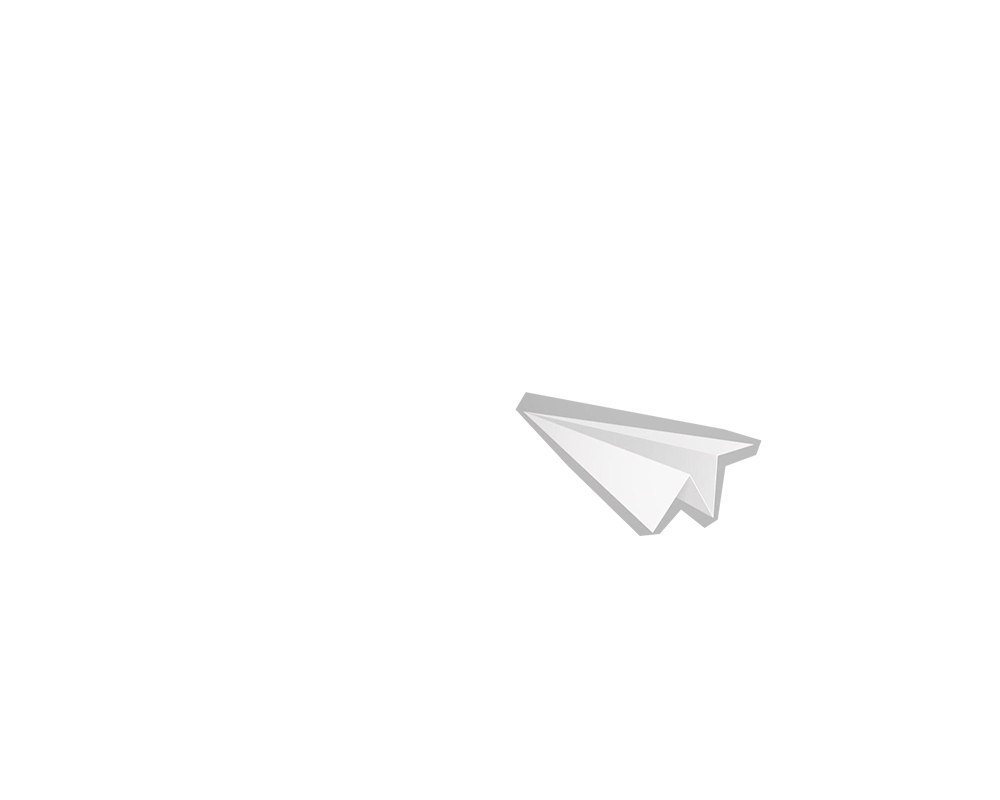
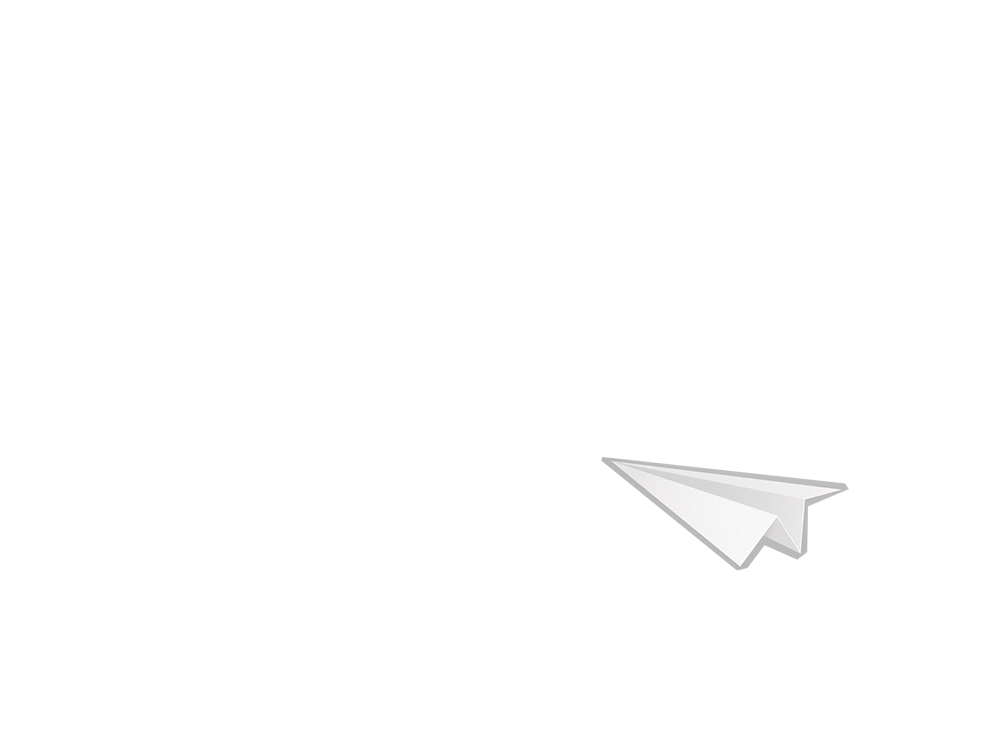
add the home page

Changed region(s): [[0.496, 0.4887, 0.868, 0.7636], [0.682, 0.7025, 0.713, 0.7331]]

diff --git a/index.html b/index.html
@@ -3,101 +3,37 @@
 	<head>
 		<meta charset="UTF-8" />
 		<meta http-equiv="X-UA-Compatible" content="IE=edge,chrome=1"> 
-		<meta name="viewport" content="width=device-width, initial-scale=1.0"> 
+		<meta name="viewport" content="width=device-width, initial-scale=1.0">
 		<title>Xiang xiyun's Blog</title>
-		
 
-		<link rel="stylesheet" type="text/css" href="stylesheets/index.css" />
-		<link rel="stylesheet" type="text/css" href="stylesheets/sideBar.css" />
-		<link rel="stylesheet" type="text/css" href="stylesheets/font-awesome-ie7.min.css"/>
-		<link rel="stylesheet" type="text/css" href="stylesheets/font-awesome.min.css"/>
-
-		<script src="javascripts/modernizr.custom.js"></script>
-		<script src="javascripts/jquery-1.11.2.min.js"></script>
-		<script src="javascripts/index.js"></script>
+    <link rel="stylesheet" type="text/css" href="homepage.css" />
+    <link rel="stylesheet" type="text/css" href="stylesheets/font-awesome-ie7.min.css"/>
+    <link rel="stylesheet" type="text/css" href="stylesheets/font-awesome.min.css"/>
 
 	</head>
 
 
 	<body>
-		<div id="st-container" class="st-container">
-			
-			<div class="st-pusher">
+    <div class = "container" style = "background: rgb(12,36,65)">
+    <ul id = "scene">
+      <li class="layer" data-depth ="0.40"><img id = "star1" src = "images/star1.png"/></li>
+      <li class="layer" data-depth ="0.20"><img id = "star2" src = "images/star2.png"/></li>
+      <li class="layer" data-depth ="0.00"><img id = "star3" src = "images/star3.png"/></li>
+      <li class="layer" data-depth ="0.50"><img id = "paperplane" src = "images/paperplane.png"/></li>
+      <li class="layer" data-depth ="0.10"><img id = "background" src = "images/background.png"/></li>
+    </ul>
+  </div>
+    <button id="toggle" class="toggle i">
+      <a href= "about.html"><i class="icon icon-double-angle-right"></i></a>
+    </button>
+  <script src="javascripts/jquery.js"></script>
+  <script src="deploy/jquery.parallax.js"></script>
+  <script>
 
-				<nav class="st-menu st-effect-3" id="menu-3">
-					<h2 >Index</h2>
+  // Yep, that's it!
+  $('#scene').parallax();
 
-					<ul class = 'MenuList'>
-          				<li class = 'MenuElement'> 
-          					<a class="reference" href="index.html">
-          						<i class="icon icon-home"></i> Home
-          					</a>  
-          				</li>
+  </script>
 
-          				<li class = 'MenuElement'> 
-          					<a class="reference" href="#"> 
-          						<i class="icon icon-plus"></i> About
-          					</a> 
-              				<ul class = 'SubMenu'>
-                				<li id = "about"> 
-                					<a href = "about.html" >
-                						<i class="icon icon-user"></i> Me
-                					</a>
-                				</li> 
-                				<li id = "resume"> 
-                					<a href = "#" > 
-                						<i class="icon icon-file-alt"></i> Resume
-                					</a>
-                				</li> 
-              				</ul>
-          				</li>
-
-          				<li class = 'MenuElement'> 
-          					<a class="reference" href="#">
-          						<i class="icon icon-plus"></i> Blog
-          					</a> 
-              				<ul class = 'SubMenu'>
-                				<li id = "techblog"> 
-                					<a href = "techblog.html" >
-                						<i class="icon icon-pencil"></i> Tech
-                					</a>
-                				</li> 
-                				<li id = "lifeblog"> 
-                					<a href = "#" >
-                						<i class="icon icon-coffee"></i> Life
-                					</a>
-                				</li> 
-              				</ul>
-          				</li>
-        
-          				<li class = 'MenuElement'> 
-          					<a class="reference" id = "portfolio" href="portfolio.html">
-          						<i class="icon icon-coffee"></i> Portfolio
-          					</a> 
-          				</li>
-
-        			</ul>
-				</nav>
-
-				
-
-				<div class="st-content"><!-- this is the wrapper for the content -->
-					<div class="st-content-inner">
-
-						<header id="st-trigger-effects" class="button_column">
-							<button id = "st-trigger-button" data-effect="st-effect-3">
-                <i class="icon icon-reorder"></i>
-              </button>
-						</header>
-					</div><!-- /st-content-inner -->
-				</div><!-- /st-content -->
-			</div><!-- /st-pusher -->
-		</div><!-- /st-container -->
-		<script src="javascripts/classie.js"></script>
-		<script src="javascripts/sidebarEffects.js"></script>
-    <script>
-    var scene = document.getElementById('scene');
-    var parallax = new Parallax(scene);
-    </script>
 	</body>
 </html>

diff --git a/index2.html b/index2.html
@@ -1,0 +1,103 @@
+<!DOCTYPE html>
+<html lang="zh-cn" class="no-js">
+	<head>
+		<meta charset="UTF-8" />
+		<meta http-equiv="X-UA-Compatible" content="IE=edge,chrome=1"> 
+		<meta name="viewport" content="width=device-width, initial-scale=1.0"> 
+		<title>Xiang xiyun's Blog</title>
+		
+
+		<link rel="stylesheet" type="text/css" href="stylesheets/index.css" />
+		<link rel="stylesheet" type="text/css" href="stylesheets/sideBar.css" />
+		<link rel="stylesheet" type="text/css" href="stylesheets/font-awesome-ie7.min.css"/>
+		<link rel="stylesheet" type="text/css" href="stylesheets/font-awesome.min.css"/>
+
+		<script src="javascripts/modernizr.custom.js"></script>
+		<script src="javascripts/jquery-1.11.2.min.js"></script>
+		<script src="javascripts/index.js"></script>
+
+	</head>
+
+
+	<body>
+		<div id="st-container" class="st-container">
+			
+			<div class="st-pusher">
+
+				<nav class="st-menu st-effect-3" id="menu-3">
+					<h2 >Index</h2>
+
+					<ul class = 'MenuList'>
+          				<li class = 'MenuElement'> 
+          					<a class="reference" href="index.html">
+          						<i class="icon icon-home"></i> Home
+          					</a>  
+          				</li>
+
+          				<li class = 'MenuElement'> 
+          					<a class="reference" href="#"> 
+          						<i class="icon icon-plus"></i> About
+          					</a> 
+              				<ul class = 'SubMenu'>
+                				<li id = "about"> 
+                					<a href = "about.html" >
+                						<i class="icon icon-user"></i> Me
+                					</a>
+                				</li> 
+                				<li id = "resume"> 
+                					<a href = "#" > 
+                						<i class="icon icon-file-alt"></i> Resume
+                					</a>
+                				</li> 
+              				</ul>
+          				</li>
+
+          				<li class = 'MenuElement'> 
+          					<a class="reference" href="#">
+          						<i class="icon icon-plus"></i> Blog
+          					</a> 
+              				<ul class = 'SubMenu'>
+                				<li id = "techblog"> 
+                					<a href = "techblog.html" >
+                						<i class="icon icon-pencil"></i> Tech
+                					</a>
+                				</li> 
+                				<li id = "lifeblog"> 
+                					<a href = "#" >
+                						<i class="icon icon-coffee"></i> Life
+                					</a>
+                				</li> 
+              				</ul>
+          				</li>
+        
+          				<li class = 'MenuElement'> 
+          					<a class="reference" id = "portfolio" href="portfolio.html">
+          						<i class="icon icon-coffee"></i> Portfolio
+          					</a> 
+          				</li>
+
+        			</ul>
+				</nav>
+
+				
+
+				<div class="st-content"><!-- this is the wrapper for the content -->
+					<div class="st-content-inner">
+
+						<header id="st-trigger-effects" class="button_column">
+							<button id = "st-trigger-button" data-effect="st-effect-3">
+                <i class="icon icon-reorder"></i>
+              </button>
+						</header>
+					</div><!-- /st-content-inner -->
+				</div><!-- /st-content -->
+			</div><!-- /st-pusher -->
+		</div><!-- /st-container -->
+		<script src="javascripts/classie.js"></script>
+		<script src="javascripts/sidebarEffects.js"></script>
+    <script>
+    var scene = document.getElementById('scene');
+    var parallax = new Parallax(scene);
+    </script>
+	</body>
+</html>

diff --git a/homepage.html b/homepage.html
@@ -7,20 +7,25 @@
 		<title>Xiang xiyun's Blog</title>
 
     <link rel="stylesheet" type="text/css" href="homepage.css" />
+    <link rel="stylesheet" type="text/css" href="stylesheets/font-awesome-ie7.min.css"/>
+    <link rel="stylesheet" type="text/css" href="stylesheets/font-awesome.min.css"/>
 
 	</head>
 
 
 	<body>
-    <div class = "container" style = "background: #333333">
+    <div class = "container" style = "background: rgb(12,36,65)">
     <ul id = "scene">
-      <li class="layer" data-depth ="0.60"><img id = "star1" src = "images/star1.png"/></li>
-      <li class="layer" data-depth ="0.00"><img id = "star2" src = "images/star2.png"/></li>
-      <li class="layer" data-depth ="0.20"><img id = "star3" src = "images/star3.png"/></li>
+      <li class="layer" data-depth ="0.40"><img id = "star1" src = "images/star1.png"/></li>
+      <li class="layer" data-depth ="0.20"><img id = "star2" src = "images/star2.png"/></li>
+      <li class="layer" data-depth ="0.00"><img id = "star3" src = "images/star3.png"/></li>
       <li class="layer" data-depth ="0.50"><img id = "paperplane" src = "images/paperplane.png"/></li>
-        
+      <li class="layer" data-depth ="0.10"><img id = "background" src = "images/background.png"/></li>
     </ul>
   </div>
+    <button id="toggle" class="toggle i">
+      <a href= "about.html"><i class="icon icon-double-angle-right"></i></a>
+    </button>
   <script src="javascripts/jquery.js"></script>
   <script src="deploy/jquery.parallax.js"></script>
   <script>

diff --git a/homepage.css b/homepage.css
@@ -1,8 +1,10 @@
 *{margin: 0;padding: 0;}
 
 li{
-  padding: 100px;
+  padding-top: 8%;
+  padding-left: 8%;
 }
+
 
 @-webkit-keyframes swing {
   0% {
@@ -12,9 +14,9 @@ li{
   }
 
   100% {
-    -webkit-transform: rotateZ(-10deg);
-    -moz-transform: rotateZ(-10deg);
-    transform: rotateZ(-10deg);
+    -webkit-transform: rotateZ(-1deg);
+    -moz-transform: rotateZ(-1deg);
+    transform: rotateZ(-1deg);
   }
 }
 
@@ -139,4 +141,35 @@ li{
   position: absolute;
 
 }
+
+#toggle{
+  width: 50px;
+  height: 50px;
+  border-radius: 100%;
+  position: absolute;
+  left: 5%;
+  top: 80%;
+  border: none;
+  background: #fff;
+
+}
+a{
+  width: 50px;
+  height: 50px;
+  border-radius: 100%;
+  text-decoration: none;
+  color: rgb(10,34,66);
+  font-weight: bold;
+}
+
+#toggle:hover{
+  background: rgb(252,226,0);
+  color: #fff;
+}
+
+.icon{
+  font-size: 40px;
+  font-weight: bold;
+}
+
 
